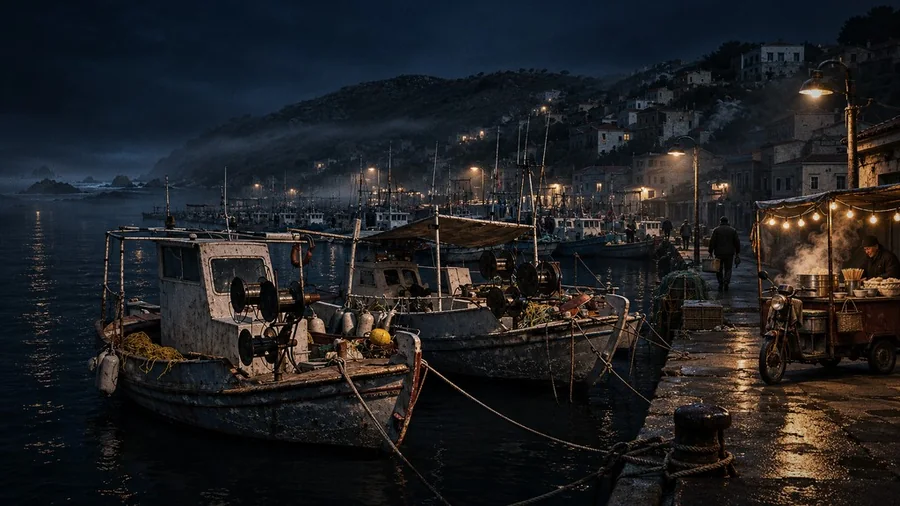
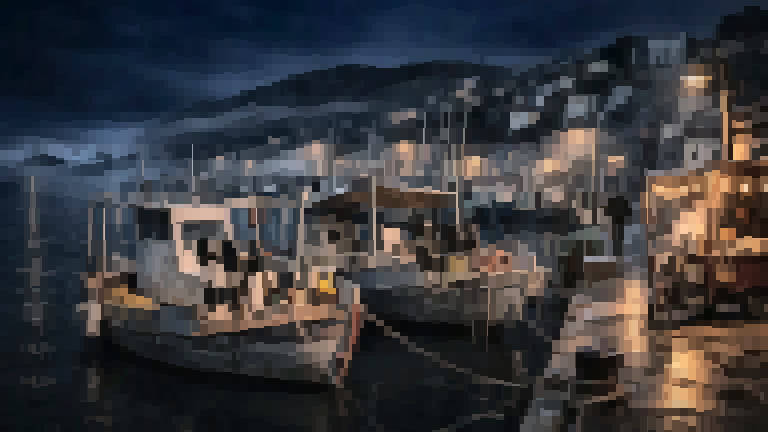
官网：更新模组封面为真彩字符画

diff --git a/docs/index.html b/docs/index.html
@@ -169,7 +169,7 @@
             </div>
             <ul class="module-list" id="module-list">
                 <li class="module-card" data-search="bayu 鲅鱼？鲅鱼！ 谁还不是个钓鱼佬了！ 现代（2025 年春） 2-5 人 · 3-5 小时（线上文字团） 中国山东烟台芝罘湾渔人码头，以及黄海近海与远海的礁石滩 春天的鲅鱼汛期，你们恰好来烟台旅游，一时兴起合伙租了一艘渔船出海钓鱼。凌晨四点半，大家在芝罘湾渔人码头集合，目标只有一个：鲅鱼！">
-<img class="module-card-cover" src="site/module-covers/bayu.webp?v=706803cead89" alt="" loading="lazy" decoding="async">
+<img class="module-card-cover" src="site/module-covers/bayu.webp?v=097f792736d0" alt="" loading="lazy" decoding="async">
 <div class="module-card-info">
 <p class="module-card-era">现代（2025 年春）</p>
 <h3>鲅鱼？鲅鱼！</h3>
@@ -179,7 +179,7 @@
 </div>
 </li>
 <li class="module-card" data-search="shiling 失灵 Glitches · 一场关于黄衣之王的单人调查 2008 年（现代） 1 人 · 约 3–5 次团（原作未写时长，按篇幅估计） 美国加利福尼亚州奥克兰 2008 年 2 月 15 日午夜，绿色三角洲的联络人敲开你家的门，交给你一份名为“停机行动”的任务：你的老队友亚当森·考克斯精神崩溃，请求组织“处理”他，并指名由你来完成。">
-<img class="module-card-cover" src="site/module-covers/shiling.webp?v=476429f04162" alt="" loading="lazy" decoding="async">
+<img class="module-card-cover" src="site/module-covers/shiling.webp?v=75bcc9094a0c" alt="" loading="lazy" decoding="async">
 <div class="module-card-info">
 <p class="module-card-era">2008 年（现代）</p>
 <h3>失灵</h3>
@@ -189,7 +189,7 @@
 </div>
 </li>
 <li class="module-card" data-search="shiluodeduichen 失落的对称 Lost Symmetry 1920 年代 1-4 人 · 约 3-4 小时 美国马萨诸塞州波士顿的一所大学（原文为波士顿大学，守秘人可换成任何合适的大学），以及佛蒙特州勒德洛镇边缘的一栋小房子 明天就要考试了。你们的同学、数学系最有前途的学生之一詹姆斯·布莱恩特，在考前最后一堂课上没有出现。 詹姆斯痴迷数学，不善交际，却是可靠、忠实、值得信赖的朋友。他很少谈自己，唯一提起过的“家人”是住在佛蒙特州的科拉阿姨。">
-<img class="module-card-cover" src="site/module-covers/shiluodeduichen.webp?v=057ee3a994f6" alt="" loading="lazy" decoding="async">
+<img class="module-card-cover" src="site/module-covers/shiluodeduichen.webp?v=0d871c4097c3" alt="" loading="lazy" decoding="async">
 <div class="module-card-info">
 <p class="module-card-era">1920 年代</p>
 <h3>失落的对称</h3>
@@ -199,7 +199,7 @@
 </div>
 </li>
 <li class="module-card" data-search="tillwevanish 直到我们灰飞烟灭 Till We Vanish 1939 年 2 月（纳粹德国） 1-4 人（原作建议单人） · 约 1-2 次跑团 德国鲁尔区埃森市，赫施伯格钢铁厂所在地 1939 年 2 月 11 日，阴雨。你是帝国保安处负责国内安全的人员，从柏林被派到埃森。德国军方的武器供应商赫施伯格钢铁厂的董事长阿克塞尔·冯·赫施伯格刚刚去世，按遗嘱由大儿子沃德蒙特继承家业。">
-<img class="module-card-cover" src="site/module-covers/tillwevanish.webp?v=e0e73e5621b8" alt="" loading="lazy" decoding="async">
+<img class="module-card-cover" src="site/module-covers/tillwevanish.webp?v=ca5c891bb007" alt="" loading="lazy" decoding="async">
 <div class="module-card-info">
 <p class="module-card-era">1939 年 2 月（纳粹德国）</p>
 <h3>直到我们灰飞烟灭</h3>
@@ -209,7 +209,7 @@
 </div>
 </li>
 <li class="module-card" data-search="xianghuoduxing 向火独行 《克苏鲁的呼唤》介绍性单人冒险 1927 年（秋） 1 人 · 约 2 小时 美国新罕布什尔州北部，北面白山山脉、南面温尼伯索基湖之间的山顶小村烬头村（Emberhead） 你要去阿卡姆开始新的工作和新的生活。家乡车站没有亲友来送你，你独自登上拉赫曼与科斯特洛车行的长途车，这只是漫长换乘的第一站。">
-<img class="module-card-cover" src="site/module-covers/xianghuoduxing.webp?v=be5e11680887" alt="" loading="lazy" decoding="async">
+<img class="module-card-cover" src="site/module-covers/xianghuoduxing.webp?v=430e12a5a3b1" alt="" loading="lazy" decoding="async">
 <div class="module-card-info">
 <p class="module-card-era">1927 年（秋）</p>
 <h3>向火独行</h3>
@@ -219,7 +219,7 @@
 </div>
 </li>
 <li class="module-card" data-search="yuyuyu 鱼！鱼！鱼！ 石头屿的夏天，十岁的我们去找阿宁 2009 年夏（原作融合 00 年代与 10 年代的时代风貌） 2-4 人（原文未写人数） · 约 4-6 小时（原文未写，按各地点时长估算） 中国闽南沿海小城石头屿（原型为福建厦门），老城区、夜市与正在清淤的避风坞石坡尾 2009 年 8 月 7 日，一个闷热的夏天。你们约好在废弃的海洋乐园交换小浣熊卡片、互抄暑假作业，可一向准时的阮施宁一直没来。下午一点，你们决定自己去找她。">
-<img class="module-card-cover" src="site/module-covers/yuyuyu.webp?v=0fa715c77617" alt="" loading="lazy" decoding="async">
+<img class="module-card-cover" src="site/module-covers/yuyuyu.webp?v=ba904e6afd46" alt="" loading="lazy" decoding="async">
 <div class="module-card-info">
 <p class="module-card-era">2009 年夏（原作融合 00 年代与 10 年代的时代风貌）</p>
 <h3>鱼！鱼！鱼！</h3>
